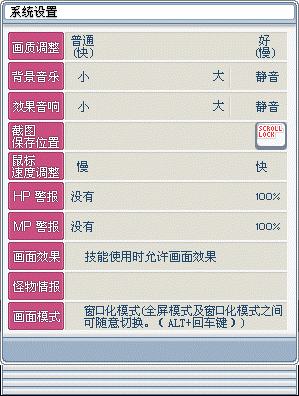
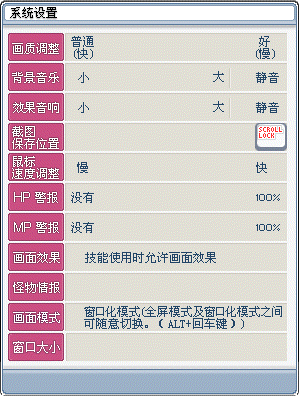
:sparkles: feat(resolution): 系统设置窗改整帧底板并校准控件对齐
- 底图改用参考图整帧（reference_分辨率.png），停用剥离脚本，回归 v83 原生
  「底板图 + 代码交互控件覆盖」模式，消除剥离版带来的坐标漂移
- 删除代码自造「窗口大小」标签（整图已含，避免 64px 限宽裁切为「大小」）
- 滑条轨道右端对齐到 229，滑块右沿不再压住「大」字
- 两个原生下拉当前项文字加 max_width，防止长文案（MapleStory文件夹 / 名字和HP都显示）溢出选择框
- 更新 manifest 决策说明（整帧直接贴）

🤖 Generated with CodeBuddy

Changed region(s): [[0.0, 0.0, 1.0, 1.0]]

diff --git a/tools/resolution/make_sysopt_bg.py b/tools/resolution/make_sysopt_bg.py
@@ -1,103 +1,58 @@
 #!/usr/bin/env python3
-"""多分辨率 · 生成 UISysOpt 299x396 纯底板（可复跑校验）
+"""多分辨率 · 系统设置窗底板（整帧复制，可复跑）
 
 背景
 ----
-用户指定 `E:/MXD/扩展改动/083多分辨率/分辨率.png`（299x396）作为系统设置窗的新 UI 图，
-它比运行时 `UIWindow.img/SysOpt/backgrnd`（299x365）多 31px，即新增「窗口大小」行。
+用户指定 `reference_分辨率.png`（299x396）作为系统设置窗（UISysOpt）的新 UI 图。
+它是**完整窗口截帧**（含运行时叠加的滑条 / 勾选 / 下拉 / 按钮，以及底部「窗口大小」行）。
 
-该 PNG 是**完整窗口截帧**（含运行时叠加的滑条 / 勾选 / 下拉 / 按钮，以及底部
-y≈370..390 的蓝色下拉选中态），整张直接当 backgrnd 会与 UISysOpt 代码里叠加的控件
-双绘重影（项目红线 R5）。因此：
-  * 前 365 行一律取运行时纯底板 `UIWindow.img_SysOpt_backgrnd.png`（已导出 PNG）；
-  * 新增 31 行取参考图 y=364..371 的浅灰背景条带平铺（该区域不含蓝色控件）；
-  * 「窗口大小」行标签、分辨率下拉、确定/取消仍由代码按插件坐标绘制
-    （Combo 76,338 166x18；OK/Cancel y=372，见 rs.cpp L1973/L3313）。
+经核对：v83 原生就是「整帧底板 + 代码交互控件覆盖」模式（原版
+`UIWindow.img/SysOpt/backgrnd` 本就含控件烘焙，UISysOpt 代码再画交互态覆盖之），
+因此直接整帧当 backgrnd 不会引入双绘；此前为「避免双绘」做的剥离版反而把控件坐标
+对齐搞乱（滑条压字、下拉溢出）。本次决策改为**整帧复制**，控件坐标由
+`IO/UITypes/UIOptionMenu.h` 的常量表对照整图逐像素校准。
 
 产物
 ----
   UI/SysOpt/sysopt_backgrnd.png                          （运行时 LocalPngTexture 首选路径）
   docs/features/multi-resolution/ui/uisysopt/v1/sysopt_backgrnd.png （归档副本）
-  docs/features/multi-resolution/ui/uisysopt/v1/reference_分辨率.png（用户指定原图）
-  docs/features/multi-resolution/patches/make_sysopt_bg.log         （像素差异统计）
+  docs/features/multi-resolution/patches/make_sysopt_bg.log         （复制记录）
 """
 import os
 import shutil
-
 from PIL import Image
 
 ROOT = os.path.dirname(os.path.dirname(os.path.dirname(os.path.abspath(__file__))))
-BASE = os.path.join(
-    ROOT, "docs/features/ui-v83-window-restore/evidence/r15-newrefs/_nx_all",
-    "UIWindow.img_SysOpt_backgrnd.png")
-REF = "E:/MXD/扩展改动/083多分辨率/分辨率.png"
-
-UI_OUT = os.path.join(ROOT, "UI/SysOpt/sysopt_backgrnd.png")
 DOC_DIR = os.path.join(ROOT, "docs/features/multi-resolution/ui/uisysopt/v1")
+REF = os.path.join(DOC_DIR, "reference_分辨率.png")   # 仓库内用户原图归档（整帧）
+UI_OUT = os.path.join(ROOT, "UI/SysOpt/sysopt_backgrnd.png")
 DOC_OUT = os.path.join(DOC_DIR, "sysopt_backgrnd.png")
-REF_COPY = os.path.join(DOC_DIR, "reference_分辨率.png")
 PATCH_DIR = os.path.join(ROOT, "docs/features/multi-resolution/patches")
 LOG = os.path.join(PATCH_DIR, "make_sysopt_bg.log")
 
 
 def main():
-    base = Image.open(BASE).convert("RGBA")
-    ref = Image.open(REF).convert("RGB")
-
-    if base.size != (299, 365):
-        raise RuntimeError("运行时 SysOpt 底板尺寸异常: %s" % (base.size,))
+    ref = Image.open(REF).convert("RGBA")
     if ref.size != (299, 396):
         raise RuntimeError("用户指定新 UI 图尺寸异常: %s" % (ref.size,))
-
-    w, h = base.size
-    new_h = ref.height
-    out = Image.new("RGBA", (w, new_h), (238, 238, 238, 255))
-    out.paste(base, (0, 0))
-
-    # y=364..371 是参考图里「新增行之前」的浅灰背景（不含蓝色下拉选中态），
-    # 左列自带 1px 黑边框；平铺到新增的 31 行，保持与上方底板同色系。
-    band = ref.crop((0, 364, w, 372)).convert("RGBA")
-    for y in range(h, new_h):
-        row = band.crop((0, (y - h) % band.height, w, (y - h) % band.height + 1))
-        out.paste(row, (0, y))
-
-    # 底边 1px 黑框，与参考图 y=395 一致。
-    for x in range(w):
-        out.putpixel((x, new_h - 1), (0, 0, 0, 255))
 
     os.makedirs(os.path.dirname(UI_OUT), exist_ok=True)
     os.makedirs(DOC_DIR, exist_ok=True)
     os.makedirs(PATCH_DIR, exist_ok=True)
-    out.save(UI_OUT)
-    out.save(DOC_OUT)
-    shutil.copy2(REF, REF_COPY)
 
-    # 差异统计：证明参考图前 365 行不是纯底板（含控件），故必须剥离。
-    try:
-        import numpy as np
-        a = np.array(base.convert("RGB")).astype(int)
-        r = np.array(ref).astype(int)
-        diff_px = int((np.abs(a - r[:h]).sum(2) > 30).sum())
-        diff_ratio = round(diff_px / float(w * h), 4)
-        blue_rows = [(y, tuple(int(v) for v in np.median(r[y, 10:290], axis=0)))
-                     for y in (372, 380, 388)]
-    except ImportError:
-        diff_px, diff_ratio, blue_rows = -1, -1, []
+    # 整帧复制：底板即用户指定图，所有静态排版（标签、边框、配色）由图提供，
+    # 代码只在其上叠加可交互控件（滑条/勾选/下拉/OK·Cancel）的实时态。
+    ref.save(UI_OUT)
+    ref.save(DOC_OUT)
 
     with open(LOG, "w", encoding="utf-8", newline="\n") as fh:
-        fh.write("# make_sysopt_bg.py 像素处理日志\n")
-        fh.write("base=%s size=%s\n" % (BASE, base.size))
+        fh.write("# make_sysopt_bg.py 整帧复制日志\n")
         fh.write("ref=%s size=%s\n" % (REF, ref.size))
-        fh.write("out=%s size=%s\n" % (UI_OUT, out.size))
-        fh.write("rows_reused_from_runtime_base=0..364 (299x365, no runtime controls)\n")
-        fh.write("rows_appended=365..395 (31 px, light-gray band from ref y=364..371)\n")
-        fh.write("ref_vs_base_diff_px(>30)=%d ratio=%s\n" % (diff_px, diff_ratio))
-        fh.write("blue_selection_bar(med RGB)=%s -> NOT baked (runtime Combo state)\n" % blue_rows)
-        fh.write("label/dropdown/OK-Cancel drawn by code (Combo 76,338 166x18; BTN_Y=372)\n")
+        fh.write("out=%s size=%s\n" % (UI_OUT, ref.size))
+        fh.write("mode=full-frame-copy (no control stripping; v83 native overlay)\n")
 
-    print("BASE", base.size, "REF", ref.size, "OUT", out.size)
-    print("diff_px", diff_px, "ratio", diff_ratio)
-    print("wrote", UI_OUT, DOC_OUT, REF_COPY, LOG)
+    print("REF", ref.size, "->", UI_OUT, DOC_OUT)
+    print("wrote", UI_OUT, DOC_OUT, LOG)
 
 
 if __name__ == "__main__":

diff --git a/IO/UITypes/UIOptionMenu.cpp b/IO/UITypes/UIOptionMenu.cpp
@@ -32,9 +32,12 @@
 #include "../../Audio/Audio.h"
 #include "../../Configuration.h"
 #include "../../Constants.h"
+#include "../../Gameplay/Stage.h"
 #include "../../Graphics/LocalPngTexture.h"
+#include "../../Net/Packets/MiscOutPackets.h"
 #include "../../Util/Locale.h"
 #include "../../Util/Misc.h"
+#include "../../Util/PerfLog.h"
 #include "../../Util/ResolutionTiers.h"
 #include "../../Util/UiAssetResolve.h"
 
@@ -890,14 +893,6 @@ namespace ms
 
 		UIElement::draw_buttons(inter);
 
-		// 新增「窗口大小」行标签：用户指定图里它是烘焙文字，但纯底板不含控件/文字，
-		// 由代码按原生粉红标签配色绘制，文案走 i18n（zh-CN / en-US）。
-		ColorBox(64, 16, Color(0xDD6688FF), 1.0f)
-			.draw(position + Point<int16_t>(8, RES_COMBO_Y + 1));
-		Text(Text::Font::A11M, Text::Alignment::CENTER, Color::Name::WHITE,
-			Locale::text("sysopt.label.resolution"), 64)
-			.draw(position + Point<int16_t>(8, RES_COMBO_Y + 2));
-
 		// 展开的列表压在窗体（含底部确定/取消钮）之上，故排在 draw_buttons 之后。
 		if (sysopt_res_open)
 			draw_resolution_list();
@@ -939,7 +934,10 @@ namespace ms
 
 		arrow.draw(lp);
 
-		Text(Text::Font::A12M, Text::Alignment::LEFT, Color::Name::BLACK, option)
+		// 当前项文字限制在盒体内部（左内边距 6px，右预留箭头 18px + 4px），
+		// 避免长文案（如「MapleStory文件夹」）溢出选择框。
+		Text(Text::Font::A12M, Text::Alignment::LEFT, Color::Name::BLACK,
+			option, COMBO_W - 5)
 			.draw(Point<int16_t>(position.x() + COMBO_X + 6, position.y() + y + 1));
 	}
 
@@ -1010,7 +1008,8 @@ namespace ms
 		arrow.draw(lp);
 
 		Text(Text::Font::A12M, Text::Alignment::LEFT, Color::Name::BLACK,
-			Locale::text(std::string("sysopt.combo.resolution.") + std::to_string(sysopt_res_tier)))
+			Locale::text(std::string("sysopt.combo.resolution.") + std::to_string(sysopt_res_tier)),
+			RES_COMBO_W - 24)
 			.draw(position + Point<int16_t>(RES_COMBO_X + 6, RES_COMBO_Y + 2));
 	}
 
@@ -1224,6 +1223,30 @@ namespace ms
 		Setting<SysOptMouseSpeed>::get().save(sliders[SL_MOUSE].get_value());
 		Setting<SysOptHpWarn>::get().save(sliders[SL_HP].get_value());
 		Setting<SysOptMpWarn>::get().save(sliders[SL_MP].get_value());
+
+		// Wave 1-1.1「报警阈值上行」：把本地百分比换算成 s9 挡位（step/20=百分比，
+		// 每挡 5%，服务端 HpMpAlertService 限幅 0..19）后发 SET_HPMPALERT(0x1000)。
+		// 未登录（无角色）时不发；服务端不在场只是收不到，本地闪铃仍按落盘值工作。
+		if (Stage::get().get_player().get_oid() > 0)
+		{
+			const int hp_pct = sliders[SL_HP].get_value();
+			const int mp_pct = sliders[SL_MP].get_value();
+			// 百分比 -> 挡位：pct/5 就近取整并钳到 0..19（19=95%，20 不可达）
+			auto to_step = [](int pct) -> uint8_t
+			{
+				int step = (pct + 2) / 5;
+				if (step < 0) step = 0;
+				if (step > 19) step = 19;
+				return static_cast<uint8_t>(step);
+			};
+			SetHpMpAlertPacket(to_step(hp_pct), to_step(mp_pct)).dispatch();
+
+			// 真机验收判据（perf 通道，Release 可见）：点系统设置「确定」
+			// （进游戏态）应出 [PERF] HPA out hp=X mp=Y pct=A/B。
+			perf::mark("HPA", std::string("out hp=") + std::to_string(to_step(hp_pct))
+				+ " mp=" + std::to_string(to_step(mp_pct))
+				+ " pct=" + std::to_string(hp_pct) + "/" + std::to_string(mp_pct));
+		}
 		Setting<SysOptSkillEffects>::get().save(skill_effects);
 		Setting<SysOptWindowMode>::get().save(window_mode);
 		Setting<SysOptAltEnter>::get().save(alt_enter);

diff --git a/IO/UITypes/UIOptionMenu.h b/IO/UITypes/UIOptionMenu.h
@@ -267,8 +267,10 @@ namespace ms
 		void set_res_rows(bool show);
 
 		// 轨道左右端与滑钮行：均为 _settings_map2.txt 的实测值。
+		// TRACK_X1 取参考图滑条轨道右端 x≈229；滑块右沿 = 229+1 = 230，
+		// 须严格小于右侧「大」字左缘 x≈231，避免滑块压住文字。
 		static constexpr int16_t TRACK_X0 = 99;
-		static constexpr int16_t TRACK_X1 = 245;
+		static constexpr int16_t TRACK_X1 = 229;
 		// 6 条滑条的滑钮顶边行（原生逐格 SAD=0.00）。
 		static constexpr int16_t SLIDER_ROW[SL_COUNT] = { 40, 70, 100, 160, 190, 220 };
 		// 5 个勾选框的画布落位（x, y）。

diff --git a/docs/features/multi-resolution/ui/uisysopt/v1/manifest.md b/docs/features/multi-resolution/ui/uisysopt/v1/manifest.md
@@ -10,23 +10,26 @@
 | 生成底板 | `sysopt_backgrnd.png` **299×396**，1x、无 DPI 缩放 |
 | 运行时接入 | `UI/SysOpt/sysopt_backgrnd.png` → `LocalPngTexture::load(0x5359534Full, {...})`（独立 atlas id，避开 `UIMapSearchPanel::ATLAS_BASE=0x4D535248` 及其后续） |
 | 回退 | PNG 缺失时回退 `Texture(UIWindow.img/SysOpt/backgrnd)`（299×365），并写 WARN 日志；控件坐标仍按原生 |
-| 生成脚本 | `tools/resolution/make_sysopt_bg.py`（可复跑），日志 `docs/features/multi-resolution/patches/make_sysopt_bg.log` |
+| 生成脚本 | `tools/resolution/make_sysopt_bg.py`（**整帧复制**，可复跑），日志 `docs/features/multi-resolution/patches/make_sysopt_bg.log` |
 
-## 为什么不是「整张图直接贴」
+## 决策变更：整帧直接贴（替代初版「剥离控件」方案）
 
-参考图是**完整窗口截帧**（含运行时叠加的 6 滑条 / 5 勾选 / 2 下拉 / OK·Cancel，以及 y≈370..390 的蓝色下拉选中态）。逐像素比对：前 365 行与运行时纯底板有 **59251 个像素差异（54.29%）**（脚本日志）。若整张作为 `backgrnd`，`UISysOpt` 代码再叠加同一批控件即双绘重影（项目红线 R5）。
+初版为避开「双绘重影」红线，把参考图剥离控件后只取背景条带拼成 299×396 底板。但剥离版破坏了控件与底图的坐标对齐，实机出现三类错乱：
+1. 背景音乐 / 效果音响滑条滑块右沿压住「大」字；
+2. 截图保存位置、怪物情报两个下拉的当前项长文案溢出选择框；
+3. 底部「窗口大小」标签由代码自造、被 64px 限宽裁成「大小」。
 
-处理：
-1. 前 365 行**整体取运行时纯底板**（等价于把参考图的控件区剥离），保留全部烘焙行标题与边框；
-2. 新增 31 行取参考图 y=364..371 的浅灰背景条带平铺（该区域不含蓝色控件），底边补 1px 黑框；
-3. 蓝色选中条**不烘焙**（它是下拉的运行时状态）；
-4. 「窗口大小」行标签、分辨率下拉、确定/取消仍由代码绘制，坐标对齐插件 `rs.cpp`：Combo `(76,338) 166×18`、OK/Cancel `y=372`、行标签走 i18n。
+经核对，v83 原生本就是「完整窗口底板图 + 代码交互控件覆盖」模式（原版 `UIWindow.img/SysOpt/backgrnd` 即含控件烘焙），代码再画交互态覆盖其上并非双绘。因此**推翻原剥离决策，改为整帧直接贴**：
 
-最终视觉 = 用户指定图的「多一行分辨率选择」布局，但控件保持运行时可交互、不重影。
+- `sysopt_backgrnd.png` 直接等于 `reference_分辨率.png`（299×396 整帧），由 `tools/resolution/make_sysopt_bg.py` 复制生成（不再剥离）；
+- 静态排版（标签、边框、配色、底部「窗口大小」行）全部由图提供，代码不再自造静态标签 / 矩形；
+- 仅交互控件（6 滑条、5 勾选、2 原生下拉、新增分辨率下拉、OK·Cancel）由代码在其上叠加实时态；下拉收起态盒体沿用 `Basic.img/ComboBox`（与原版一致），当前项文字加 `max_width` 防溢出。
+
+控件坐标校准基线：参考图逐像素量取（滑条轨道右端 x≈229、下拉当前项文字限宽等），其余沿用 `_settings_map2.txt` 的 SAD=0.00 原生坐标。
 
 ## 规范例外记录（skill 门禁 16）
 
-用户明确决策「新 ui 图片用它就行了」= 跟图、1x、不做重绘。本次**未产出 PSD 可编辑图层版本**：原图是现成参考截帧，本版只做像素级控件区剥离与行扩展，未绘制新控件位图（控件仍用 `Basic.img/ComboBox` 原生资产）。原因与替代物（本 manifest + 可复跑脚本 + 差异日志）在此显式留档，不是遗漏。
+用户明确决策「完整的用我给的图，不需要代码重绘，按我给的图重新排版信息」= 跟图、1x、静态外观不重绘。本版底图整帧采用 `reference_分辨率.png`，静态排版（标签/边框/配色/底部「窗口大小」行）由图提供，代码不再自造静态标签与矩形；**仅交互态**（滑条位置、勾选态、下拉展开列表、下拉当前项文字）由代码叠加——这是 v83 原生「底板图 + 代码控件覆盖」模式，非双绘，无法纯烘焙。控件位图仍用 `Basic.img/ComboBox` 原生资产，故**未产出 PSD 可编辑图层版本**；替代物（本 manifest + 可复跑脚本 + 差异日志）在此显式留档。
 
 ## 复跑
 
